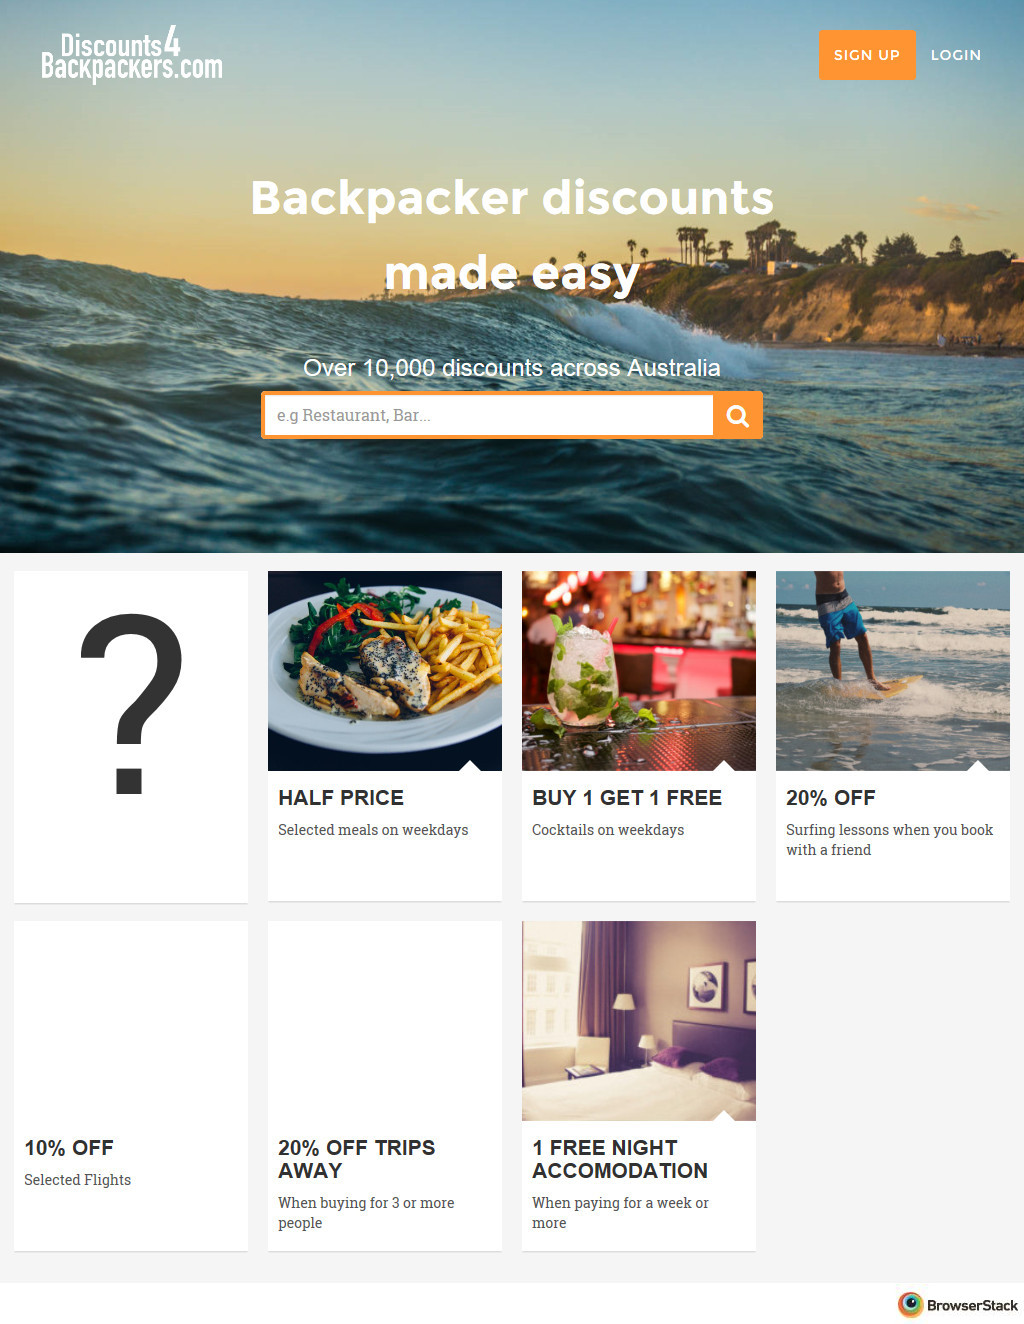
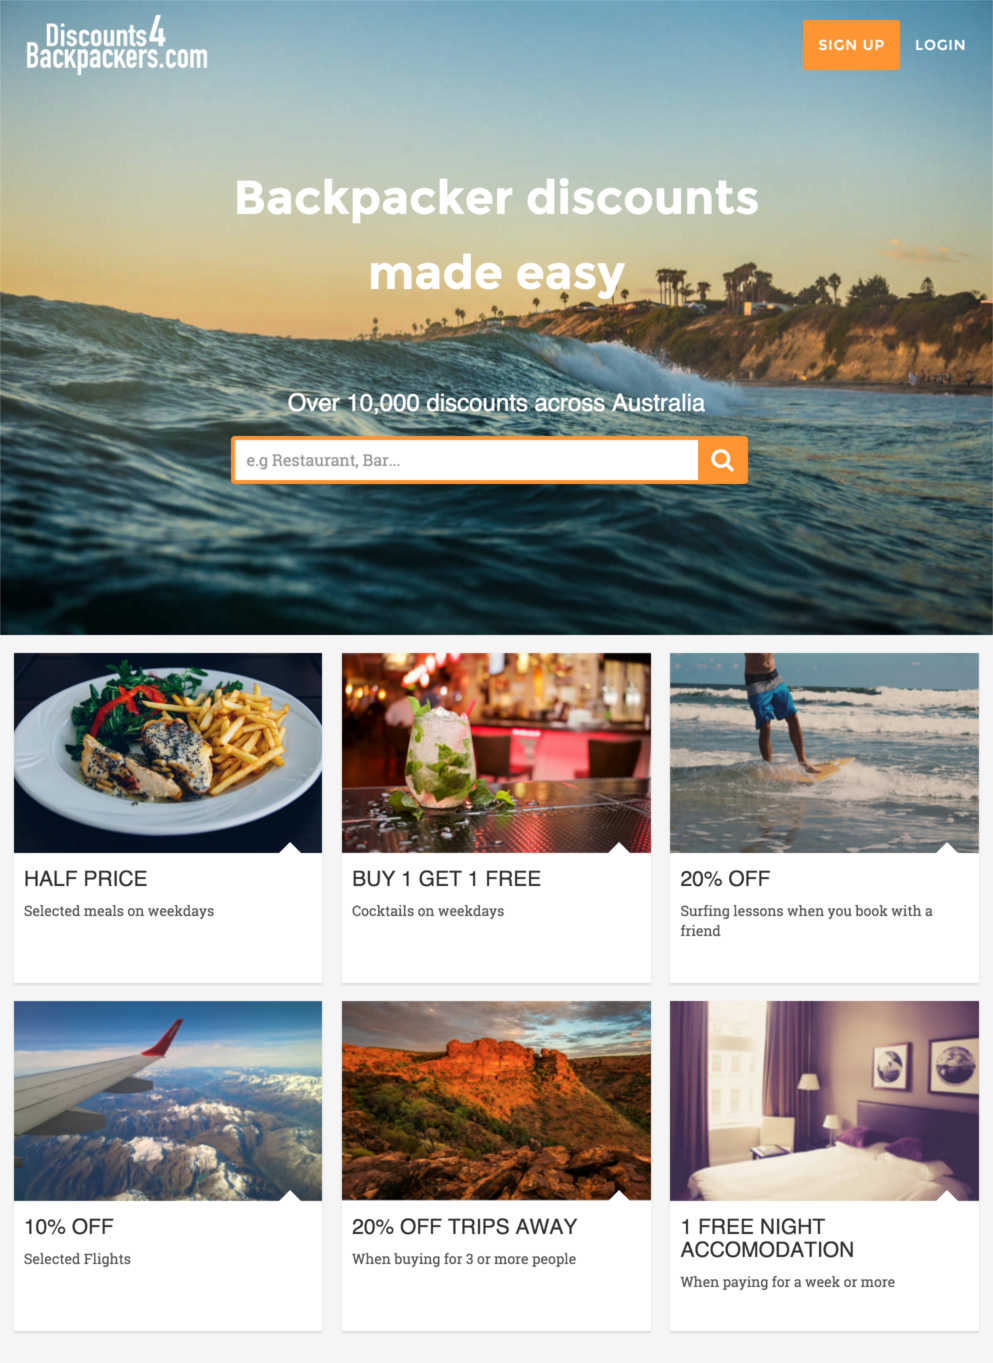
Improved image of mockup site on landing header. Other improvements to landing header. Make correcttions to mockup page

diff --git a/css/agency.css b/css/agency.css
@@ -152,7 +152,7 @@ fieldset[disabled] .btn-xl.active {
 
 .navbar-default {
   border-color: transparent;
-  background-color: transparent; }
+  background-color: #1E6375; }
 
 .navbar-default .navbar-brand {
   font-family: "Kaushan Script","Helvetica Neue",Helvetica,Arial,cursive;
@@ -206,12 +206,9 @@ fieldset[disabled] .btn-xl.active {
 .navbar-default .navbar-nav {
   margin-top: 5px; }
 
-.navbar-shrink {
-  background-color: #1E6375; }
-
 @media (min-width: 768px) {
   .navbar-default {
-    padding: 25px 0;
+    padding: 15px 0;
     border: 0;
     -webkit-transition: padding .3s;
     -moz-transition: padding .3s;
@@ -302,7 +299,7 @@ header .demo-image {
 
   header .intro-text .intro-lead-in {
     margin-bottom: 50px;
-    font-size: 28px;
+    font-size: 26px;
     line-height: 38px; }
 
   header .intro-text .intro-heading {
@@ -317,7 +314,7 @@ header .demo-image {
     position: absolute;
     width: 360px;
     right: 15px;
-    height: 440px; }
+    height: 470px; }
 
   header input.form-control {
     height: 42px; }
@@ -347,7 +344,7 @@ header .demo-image {
   header .demo-image {
     width: 460px;
     right: 40px;
-    height: 500px; } }
+    height: 520px; } }
 @media (min-width: 1200px) {
   header .intro-text {
     padding-top: 170px;

diff --git a/css/agency.scss b/css/agency.scss
@@ -178,7 +178,7 @@ fieldset[disabled] .btn-xl.active {
 
 .navbar-default {
     border-color: transparent;
-    background-color: transparent;
+    background-color: $navbar-shrink;
 }
 
 .navbar-default .navbar-brand {
@@ -247,13 +247,9 @@ fieldset[disabled] .btn-xl.active {
     margin-top: 5px;
 }
 
-.navbar-shrink {
-    background-color: $navbar-shrink;
-}
-
 @media(min-width:768px) {
     .navbar-default {
-        padding: 25px 0;
+        padding: 15px 0;
         border: 0;
         -webkit-transition: padding .3s;
         -moz-transition: padding .3s;
@@ -369,7 +365,7 @@ header .demo-image {
 
     header .intro-text .intro-lead-in {
         margin-bottom: 50px;
-        font-size: 28px;
+        font-size: 26px;
         line-height: 38px;
     }
 
@@ -386,7 +382,7 @@ header .demo-image {
         position: absolute;
         width: 360px;
         right: 15px;
-        height: 440px;
+        height: 470px;
     }
 
     header input.form-control {
@@ -425,7 +421,7 @@ header .demo-image {
     header .demo-image {
         width: 460px;
         right: 40px;
-        height: 500px;
+        height: 520px;
     }
 }
 

diff --git a/index.html b/index.html
@@ -343,8 +343,6 @@ j=d.createElement(s),dl=l!='dataLayer'?'&l='+l:'';j.async=true;j.src=
     <!-- Plugin JavaScript -->
     <script src="http://cdnjs.cloudflare.com/ajax/libs/jquery-easing/1.3/jquery.easing.min.js"></script>
     <script src="js/classie.js"></script>
-    
-    <script src="js/cbpAnimatedHeader.js"></script>
 
     <!-- Contact Form JavaScript -->
     <script src="js/jqBootstrapValidation.js"></script>

diff --git a/css/mockup.css b/css/mockup.css
@@ -8,9 +8,13 @@
   background: #FD9D43;
   color: #FFFFFF; }
 
+.navbar-default {
+  background: transparent; }
+
 .navbar-default.navbar-shrink {
   padding-left: 40px;
-  padding-right: 40px; }
+  padding-right: 40px;
+  background-color: #1E6375; }
 
 @media (max-width: 767px) {
   .navbar-default.navbar-shrink {

diff --git a/css/mockup.scss b/css/mockup.scss
@@ -12,9 +12,14 @@
 	color: #FFFFFF;
 }
 
+.navbar-default {
+	background:	transparent;
+}
+
 .navbar-default.navbar-shrink {
 	padding-left: 40px;
 	padding-right: 40px;
+	background-color: $navbar-shrink;
 }
 
 @media (max-width: 767px) {
